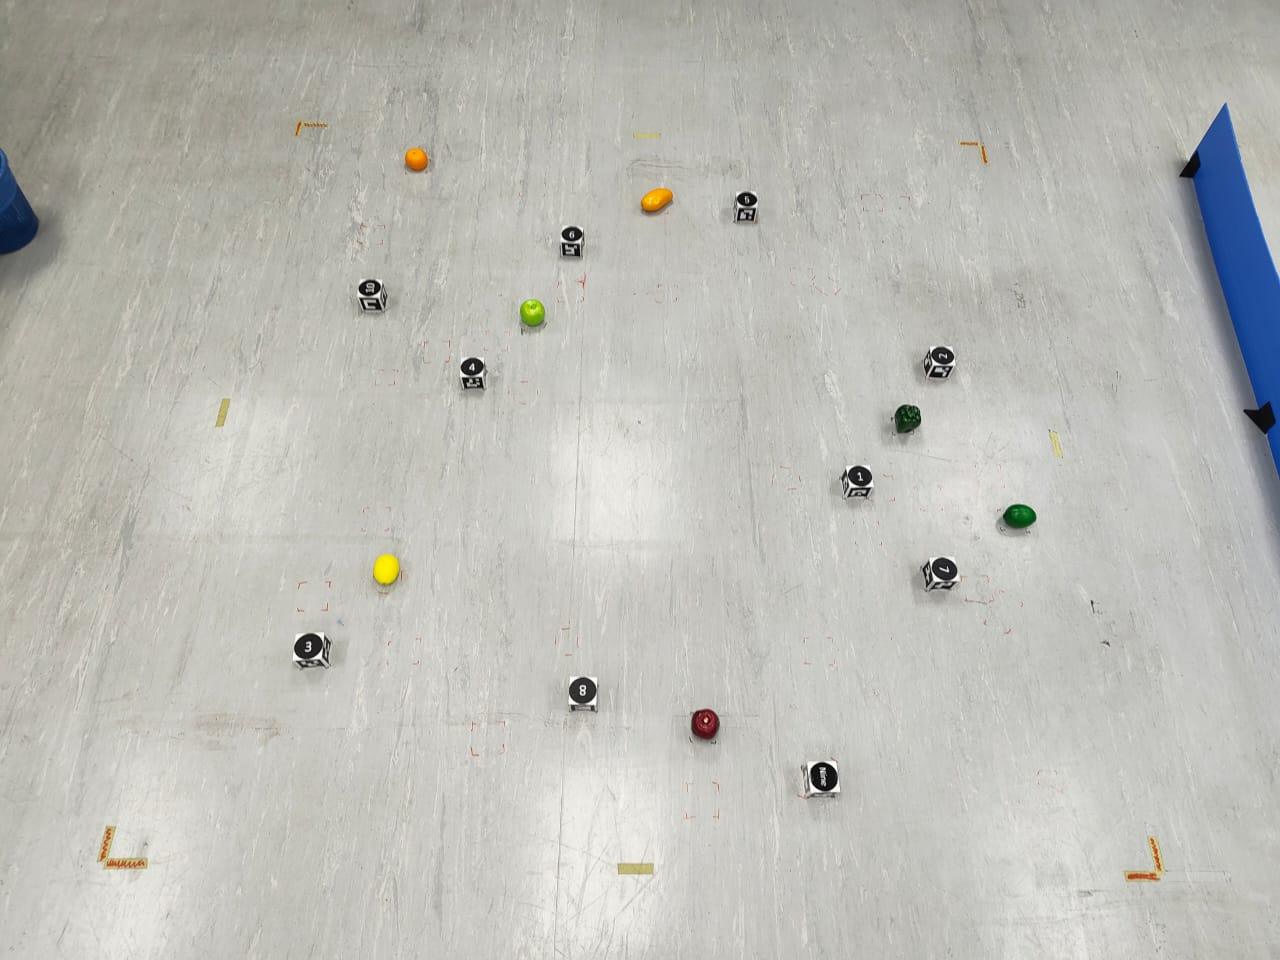
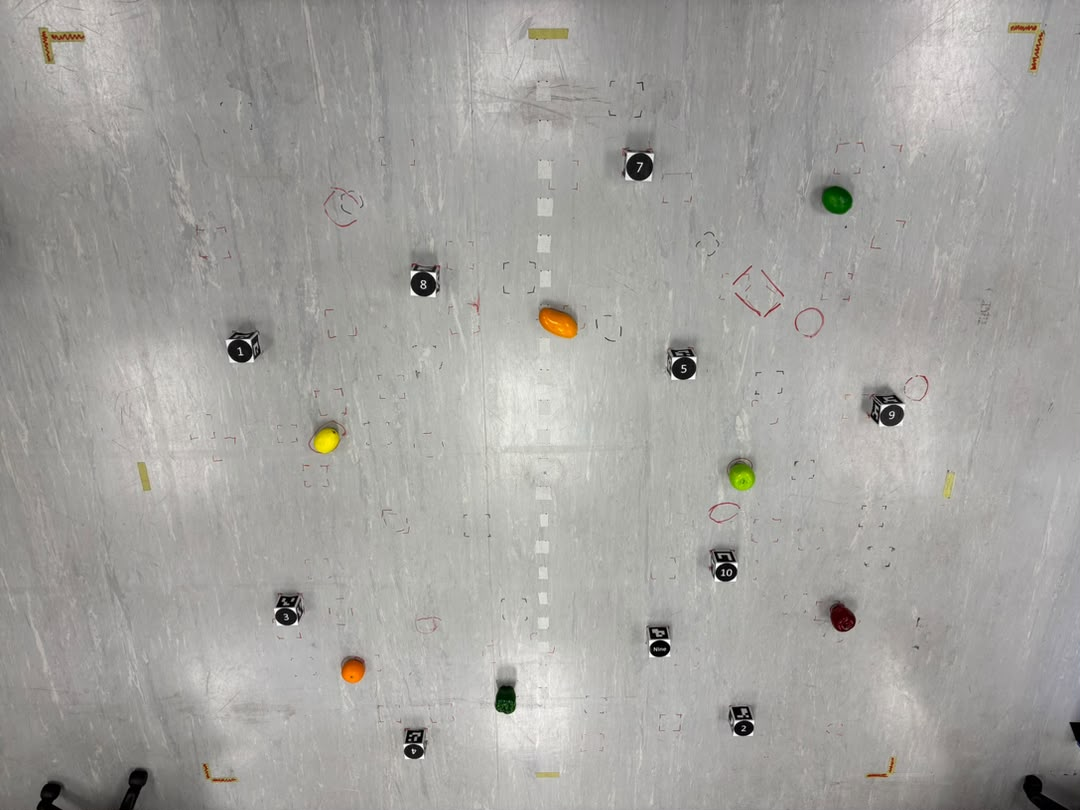
Skip redundant 360 scans when fruits are found
This change prevents the robot from performing a redundant 360-degree scan when one or more search-list fruits are already discovered while driving toward a fixed viewpoint. The route logic now stops early once the remaining target fruits are on the map, reducing wasted exploration and improving search efficiency. It also updates the current search list to the new target fruits.

diff --git a/auto_fruit_search.py b/auto_fruit_search.py
@@ -4144,6 +4144,7 @@ def run_level3(nav, search_list, aruco_true_pos, mapper, planner='astar', grid_r
         fixed = kept
 
         focus = None   # the one fruit this viewpoint is for; None -> full 360 scan
+        scan_for = None   # a fixed viewpoint chosen only to FIND these search-list fruits
         tight_route = False   # this viewpoint is only reachable with the tighter margins
         if visited == 0:
             vp, why = (fixed.pop(0) if fixed else tuple(pose[:2])), "centre scan"
@@ -4164,6 +4165,7 @@ def run_level3(nav, search_list, aruco_true_pos, mapper, planner='astar', grid_r
                 fixed.sort(key=lambda v: path_planner.dist_between(v, pose[:2]))
                 vp, why, focus = fixed.pop(0), "fixed viewpoint ({} not seen yet -- finding it comes first)".format(
                     ", ".join(unseen)), None
+                scan_for = list(unseen)
             else:
                 vp, why, focus = _next_viewpoint(mapper, search_list, pose, obstacles, view_ring, bounds=bounds,
                                                  markers=markers_xy, look_half=look_half, half_fov=half_fov,
@@ -4218,6 +4220,7 @@ def run_level3(nav, search_list, aruco_true_pos, mapper, planner='astar', grid_r
                 else:
                     fixed.sort(key=lambda v: path_planner.dist_between(v, pose[:2]))
                     vp, why = fixed.pop(0), "fixed viewpoint ({} not seen yet)".format(", ".join(unseen))
+                    scan_for = list(unseen)
             elif vp in fixed:
                 fixed.remove(vp)
 
@@ -4232,6 +4235,13 @@ def run_level3(nav, search_list, aruco_true_pos, mapper, planner='astar', grid_r
             budget = [int(looks_on_the_way)]
             way = (lambda p, _f=focus, _v=vp: look_on_the_way(p, _f, _v, budget)) if looks_on_the_way else None
             face_goal = (mapper.positions().get(focus) or nav.rough_position(focus)) if focus is not None else None
+
+            def found_on_the_way(_labels=scan_for):
+                """This viewpoint is only for finding _labels: once every one
+                of them is on the map (seen on the way here), stop driving."""
+                if _labels and all(l in mapper.positions() for l in _labels):
+                    return "{} found on the way -- this viewpoint's 360 is not needed".format(", ".join(_labels))
+                return None
             with nav.mapping_policy('new'):
                 # A route only the tighter margins allow squeezes past things:
                 # short legs, no open ones, so a drive that runs long or
@@ -4243,7 +4253,8 @@ def run_level3(nav, search_list, aruco_true_pos, mapper, planner='astar', grid_r
                                        clearance_pref=clearance_pref,
                                        label="explore", bounds=bounds,
                                        open_leg_length=(0.0 if tight_route else open_leg_length),
-                                       after_leg=way, markers=markers_xy, face_at_goal=face_goal, **level1_kwargs)
+                                       after_leg=way, markers=markers_xy, face_at_goal=face_goal,
+                                       stop_when=found_on_the_way, **level1_kwargs)
             if failure is not None and failure.endswith("found no route") and not tight_route:
                 # Boxed in by the exploring margins (a corner pocket the robot
                 # drove into before the fruit beside it was mapped with its
@@ -4256,7 +4267,7 @@ def run_level3(nav, search_list, aruco_true_pos, mapper, planner='astar', grid_r
                                            clearance_pref=clearance_pref,
                                            label="explore", bounds=bounds, open_leg_length=0.0,
                                            after_leg=way, markers=markers_xy, face_at_goal=face_goal,
-                                           **level1_kwargs)
+                                           stop_when=found_on_the_way, **level1_kwargs)
             if failure is not None:
                 print(f"[explore] could not reach viewpoint ({failure}) -- looking from here instead")
                 if focus is not None:
@@ -4309,7 +4320,13 @@ def run_level3(nav, search_list, aruco_true_pos, mapper, planner='astar', grid_r
                 if viewpoint_looks:
                     pose, seen_more = looks_from_viewpoint(pose, {focus})
                     seen = set(seen) | seen_more
-        if focus is None:
+        if focus is None and scan_for and all(l in mapper.positions() for l in scan_for):
+            # The fruit(s) this 360 was for turned up on the way: no scan.
+            # The next viewpoint is chosen for them like any other fruit.
+            print("[explore] {} already on the map -- skipping the 360 here".format(", ".join(scan_for)))
+            seen = set()
+            pose = nav.check_pose()
+        elif focus is None:
             seen = nav.scan_around(step=scan_step)
             pose = nav.settle_pose()
         print("[explore] after viewpoint {}: saw {}; map so far:\n{}".format(
@@ -4918,7 +4935,7 @@ def _fixed_views_for(fixed, labels, mapper, pose, detect_range=1.3, min_new=np.d
 
 def _go_to(nav, goal, obstacles, grid, planner='astar', max_leg_length=0.25, clearance_pref=0.15,
            goal_tolerance=0.15, max_legs=12, stall_legs=4, label="", bounds=None, open_leg_length=0.60,
-           after_leg=None, markers=None, face_at_goal=None, **_ignored):
+           after_leg=None, markers=None, face_at_goal=None, stop_when=None, **_ignored):
     """
     Drive to a plain (x, y) point with the same leg-by-leg re-plan +
     relocalise loop run_level1() uses, minus the fruit-specific parts. The
@@ -4950,6 +4967,11 @@ def _go_to(nav, goal, obstacles, grid, planner='astar', max_leg_length=0.25, cle
     obstacles_src = obstacles if callable(obstacles) else None
     n_known = None
     for leg in range(1, max_legs + 1):
+        if stop_when is not None and leg > 1:
+            why = stop_when()
+            if why:
+                print(f"[{label}] {why} -- not driving on to [{goal[0]:.2f}, {goal[1]:.2f}]")
+                return pose, None
         if obstacles_src is not None:
             obstacles, grid = obstacles_src()
             if n_known is not None and len(obstacles) != n_known:
